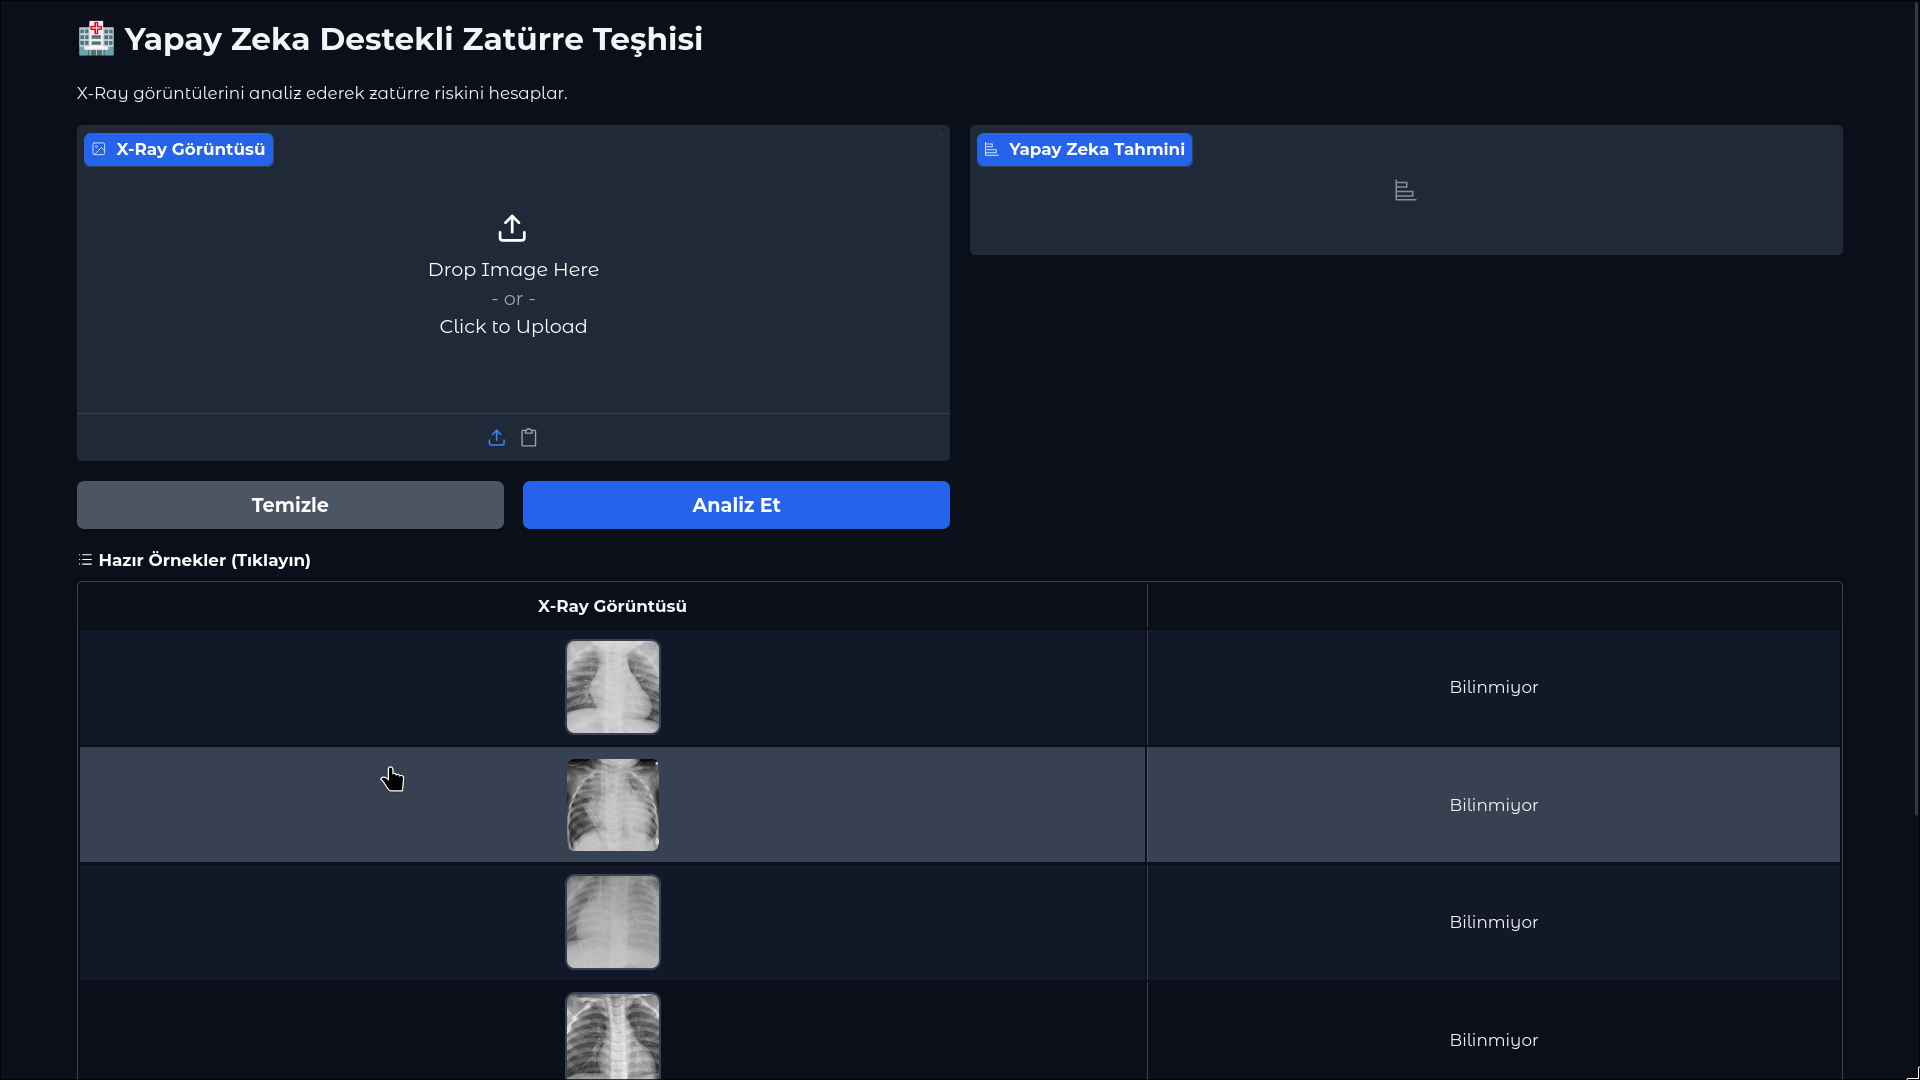
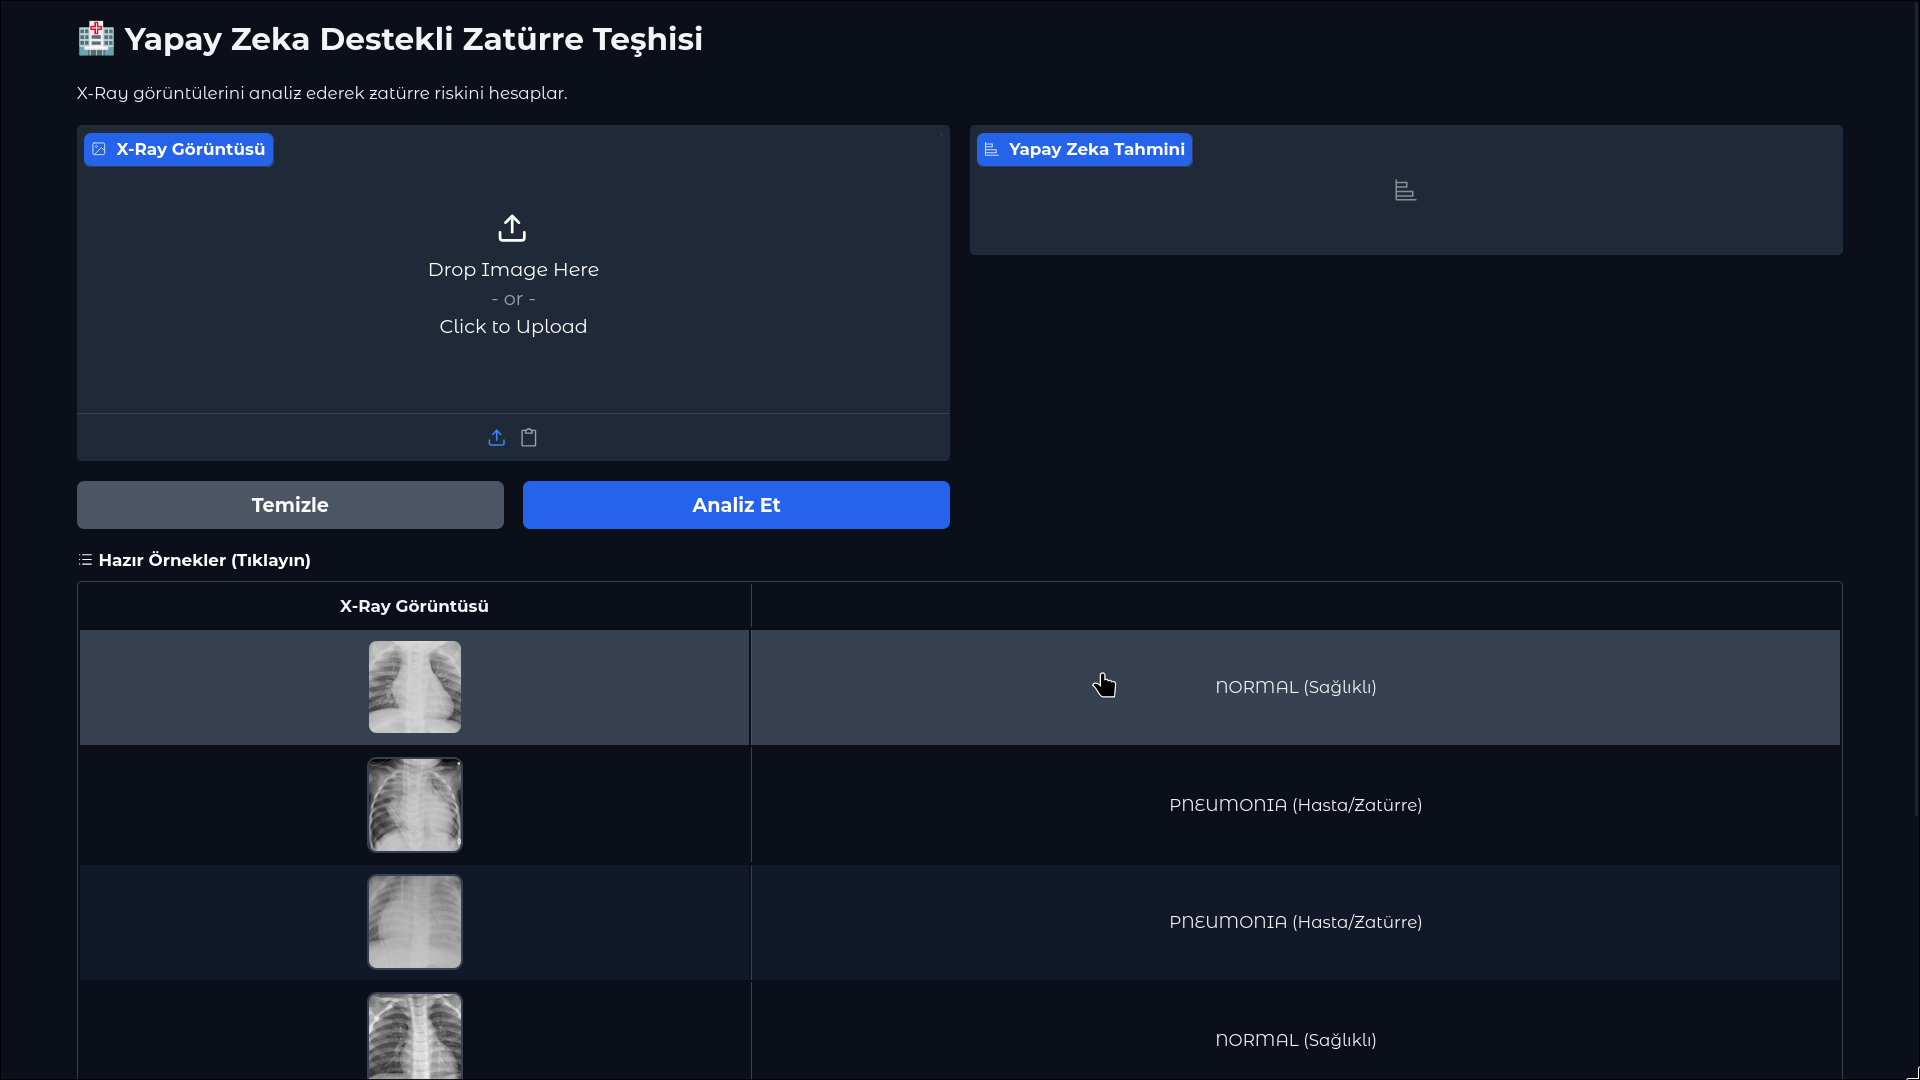
fixed hazir_ornekler labels

Changed region(s): [[0.0312, 0.55, 0.9688, 1.0], [0.625, 0.9472, 0.7188, 0.9778], [0.75, 0.9472, 0.7812, 0.9778]]

diff --git a/app.py b/app.py
@@ -54,9 +54,9 @@ def ornekleri_hazirla_ve_getir():
         
         for filename in files:
             full_path = os.path.join(target_dir, filename)
-            if "hasta" in filename:
+            if "HASTA" in filename:
                 etiket = "PNEUMONIA (Hasta/Zatürre)"
-            elif "saglikli" in filename:
+            elif "SAGLIKLI" in filename:
                 etiket = "NORMAL (Sağlıklı)"
             else:
                 etiket = "Bilinmiyor"
